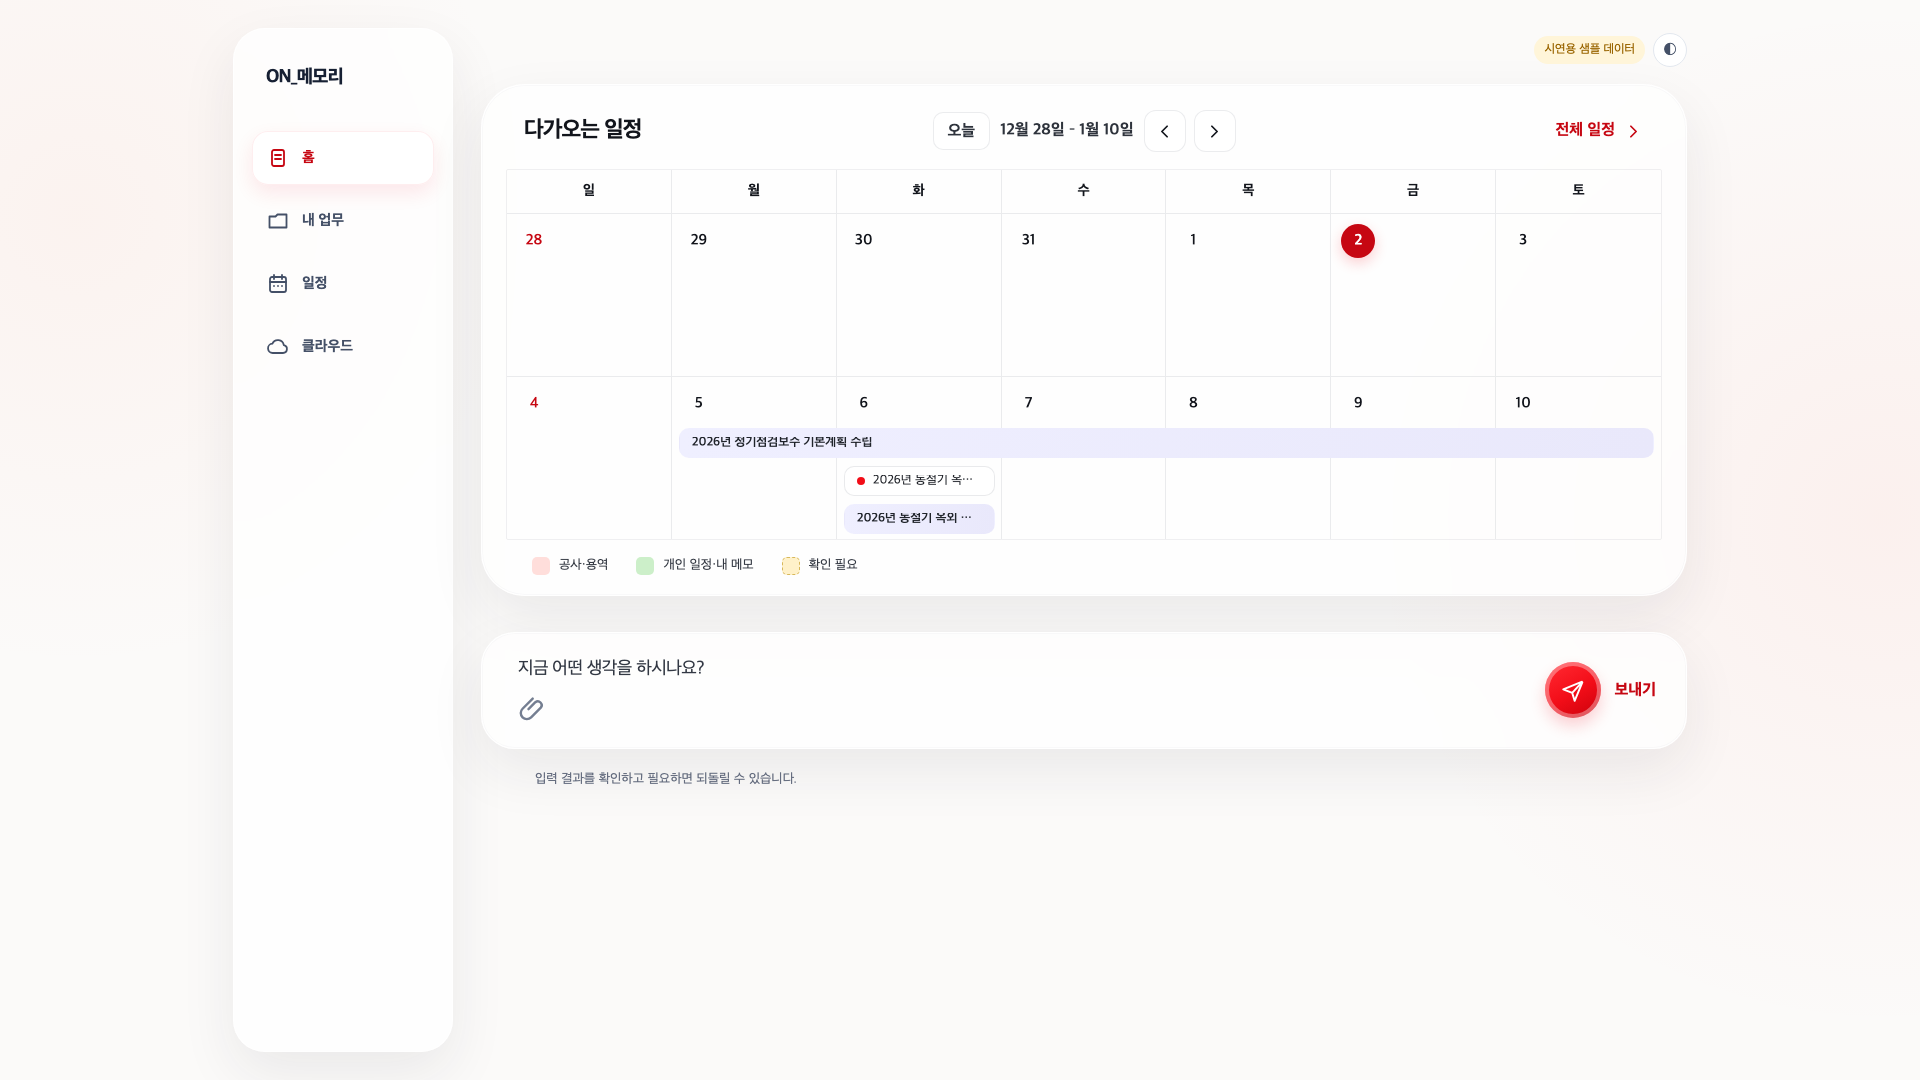
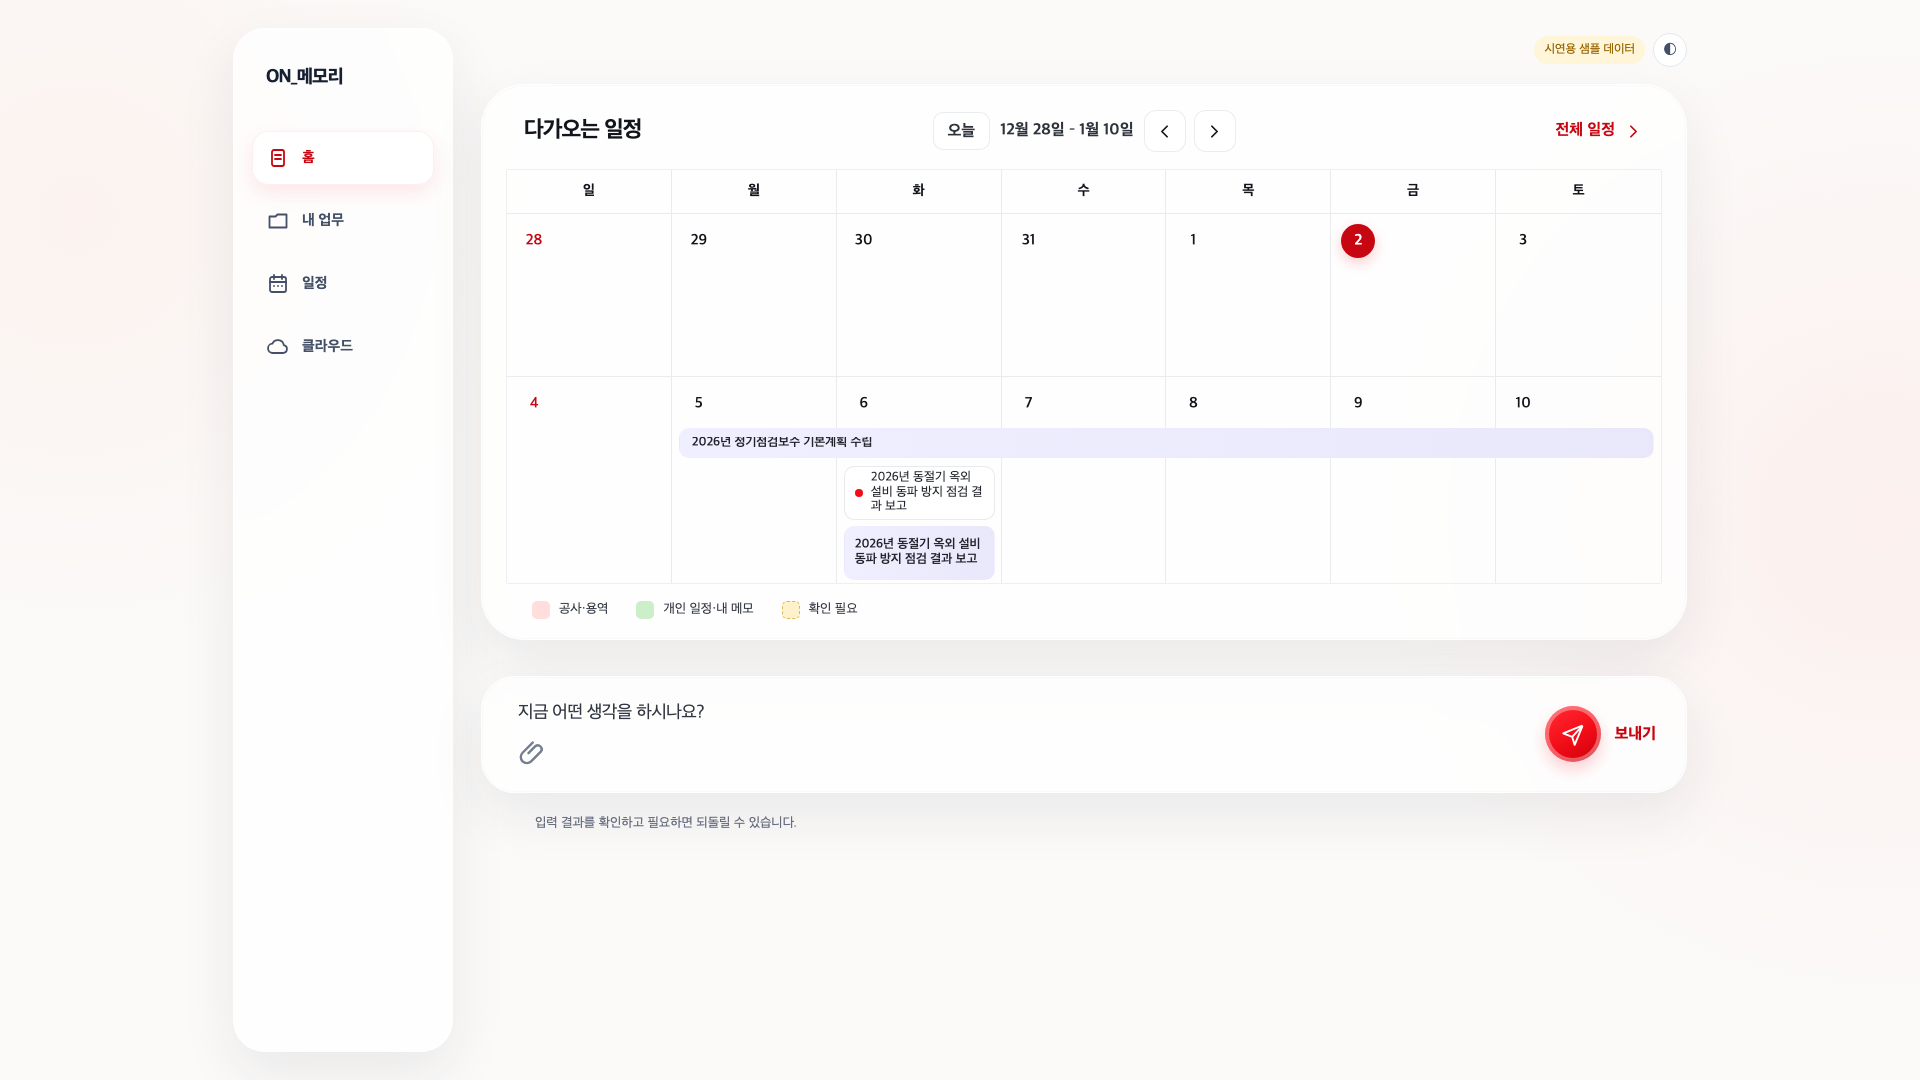
fix: 홈 일정 칩 내용을 온전히 표시

diff --git a/product-ui/tests/verify-home-browser.js b/product-ui/tests/verify-home-browser.js
@@ -40,6 +40,13 @@ const seededState = {
     endISO: "2026-01-03",
     ownerId: "person-kim-hannan",
     status: "active"
+  }, {
+    id: "personal-long-label",
+    title: "2026년 정기점검보수 개인 검토 일정",
+    startISO: "2026-01-06",
+    endISO: "2026-01-06",
+    ownerId: "person-kim-hannan",
+    status: "active"
   }],
   works: [{
     id: "calendar-work",
@@ -68,6 +75,13 @@ const seededState = {
       label: "다음 주 업체 서류 확인",
       startISO: "2026-01-04",
       endISO: "2026-01-10",
+      confirmed: false
+    }, {
+      id: "single-day-candidate-long-label",
+      kind: "date",
+      label: "2026년 정기점검보수 확인 필요 일정",
+      startISO: "2026-01-06",
+      endISO: "2026-01-06",
       confirmed: false
     }],
     sources: [],
@@ -165,7 +179,7 @@ async function run() {
   try {
     server = await startServer();
     browser = await launchBrowser();
-    const page = await browser.newPage({ viewport: { width: 1280, height: 900 } });
+    const page = await browser.newPage({ viewport: { width: 1920, height: 1080 } });
     page.on("pageerror", function (error) { errors.push(`pageerror: ${error.message}`); });
     page.on("console", function (message) {
       if (message.type() === "error") errors.push(`console: ${message.text()}`);
@@ -266,11 +280,29 @@ async function run() {
       `desktop section gap is not 36px: ${desktopHierarchy.sectionGap}`);
     assert(desktopHierarchy.composeHeight >= 106 && desktopHierarchy.composeHeight <= 120,
       `desktop capture card is not visually secondary: ${desktopHierarchy.composeHeight}`);
-    assert.equal(await page.locator('[data-calendar-kind="personal"] .home-event-checkbox').count(), 1,
-      "personal schedule lacks its to-do indicator");
+    assert.equal(await page.locator('[data-calendar-kind="personal"] .home-event-checkbox').count(), 2,
+      "personal schedules lack their to-do indicators");
     assert.equal(await page.locator("[data-calendar-date]").count(), 14, "home calendar must render exactly 14 dates");
     assert.equal(await page.locator("[data-calendar-date]").first().getAttribute("data-calendar-date"), "2025-12-28", "calendar does not start from summary.simDate week");
     assert.equal(await page.locator('[data-calendar-date="2026-01-02"]').getAttribute("aria-current"), "date", "simulation date is not exposed as current date");
+    for (const eventId of ["personal-long-label", "single-day-candidate-long-label"]) {
+      const chip = page.locator(`[data-event-id="${eventId}"]`);
+      const layout = await chip.evaluate(function (element) {
+        const label = element.querySelector(".home-event-text");
+        const status = element.querySelector(".home-event-status");
+        const chipRect = element.getBoundingClientRect();
+        const statusRect = status && status.getBoundingClientRect();
+        return {
+          labelClipped: label.scrollWidth > label.clientWidth || label.scrollHeight > label.clientHeight,
+          statusClipped: Boolean(status && (status.scrollWidth > status.clientWidth || status.scrollHeight > status.clientHeight)),
+          statusContained: Boolean(!status || (statusRect.left >= chipRect.left && statusRect.right <= chipRect.right
+            && statusRect.top >= chipRect.top && statusRect.bottom <= chipRect.bottom))
+        };
+      });
+      assert.equal(layout.labelClipped, false, `${eventId} label is clipped in the 1920px home calendar`);
+      assert.equal(layout.statusClipped, false, `${eventId} status is clipped in the 1920px home calendar`);
+      assert.equal(layout.statusContained, true, `${eventId} status escapes its 1920px home calendar chip`);
+    }
 
     assert((await page.locator('[data-calendar-kind="work"]').count()) >= 1, "multi-day work bar missing");
     assert.equal(await page.getByText("내 참여 업무", { exact: true }).count(), 1, "participant work is missing from home");
@@ -288,7 +320,7 @@ async function run() {
     await page.locator('[data-calendar-kind="personal"][data-event-start="2026-01-08"]').waitFor();
     assert.equal(await page.locator('[data-calendar-kind="personal"][data-event-start="2026-01-08"]').count(), 1, "confirmed personal schedule did not appear in the calendar");
     assert.equal(await page.locator('[data-calendar-kind="memo"]').count(), 1, "confirmed memo missing");
-    const candidate = page.locator('[data-calendar-kind="candidate"]');
+    const candidate = page.locator('[data-calendar-kind="candidate"][data-event-id="schedule-candidate"]');
     assert.equal(await candidate.count(), 1, "schedule candidate chip missing");
     assert((await candidate.innerText()).includes("후보"), "candidate does not expose the visible Korean candidate label");
     assert((await candidate.innerText()).includes("미확인"), "candidate does not expose visible status text");
@@ -296,7 +328,7 @@ async function run() {
     assert(candidateAriaLabel.includes("일정 후보 미확인"), "candidate status is missing from its accessible name");
     assert(candidateAriaLabel.includes("2026.01.04") && candidateAriaLabel.includes("2026.01.10"), "candidate range accessible name omits one of its dates");
     await candidate.click();
-    await page.waitForFunction(function () { return !document.querySelector('[data-calendar-kind="candidate"]'); });
+    await page.waitForFunction(function () { return !document.querySelector('[data-calendar-kind="candidate"][data-event-id="schedule-candidate"]'); });
     const confirmationFeedback = await page.locator("#homeFeedback").innerText();
     assert(confirmationFeedback.includes("냉각수 펌프 정비공사 일정을 확정했습니다."), "schedule confirmation feedback is not cohesive Korean copy");
     assert.equal(confirmationFeedback.includes("schedule confirmed"), false, "English schedule confirmation feedback remains");

diff --git a/product-ui/app.js b/product-ui/app.js
@@ -670,7 +670,7 @@ function renderHomeEvent(event2, column, span, row) {
     : event2.kind === "memo"
       ? '<span class="home-event-symbol" aria-hidden="true">▤</span>'
       : '<span class="home-event-dot" aria-hidden="true"></span>';
-  return `<button type="button" class="home-calendar-event home-event--${esc(event2.kind)}${homeEventClass(event2)}"
+  return `<button type="button" class="home-calendar-event home-event--${esc(event2.kind)}${homeEventClass(event2)}${span === 1 ? " is-single-day" : ""}"
     style="grid-column:${column} / span ${span};grid-row:${row}"
     data-calendar-kind="${esc(event2.kind)}" data-work-id="${esc(event2.workId)}" data-event-id="${esc(event2.id)}"
     data-event-start="${esc(event2.startISO)}" data-event-end="${esc(event2.endISO)}"
@@ -700,7 +700,14 @@ function renderHomeCalendarWeek(days, events, sim) {
     const span = days.indexOf(visibleEnd) - days.indexOf(visibleStart) + 1;
     return renderHomeEvent(event2, column, span, index + 2);
   }).join("");
-  return `<div class="home-calendar-week" style="grid-template-rows:48px repeat(${lanes},38px)">${dayCells}${eventButtons}</div>`;
+  const laneRows = Array.from({ length: lanes }, (_, index) => {
+    const event2 = weekEvents[index];
+    if (!event2) return "38px";
+    const visibleStart = event2.startISO < first ? first : event2.startISO;
+    const visibleEnd = event2.endISO > last ? last : event2.endISO;
+    return visibleStart === visibleEnd ? "60px" : "38px";
+  }).join(" ");
+  return `<div class="home-calendar-week" style="grid-template-rows:48px ${laneRows}">${dayCells}${eventButtons}</div>`;
 }
 
 /* ---------- 만능 입력 처리 ---------- */

diff --git a/product-ui/style.css b/product-ui/style.css
@@ -220,6 +220,13 @@ main.home-main{width:100%;max-width:none;margin:0;padding:0;outline:none;flex:1 
   text-align:left;font-size:.79rem;line-height:1;color:#20242b;background:rgba(255,255,255,.88);border:1px solid rgba(44,53,69,.10);
   overflow:hidden;transition:transform 140ms cubic-bezier(.23,1,.32,1),border-color 160ms ease,box-shadow 160ms ease,background-color 160ms ease}
 .home-event-text{overflow:hidden;text-overflow:ellipsis;white-space:nowrap}
+.home-calendar-event.is-single-day{height:54px;padding:6px 10px;align-items:center;line-height:1.15}
+.home-calendar-event.is-single-day .home-event-text{overflow:visible;text-overflow:clip;white-space:normal}
+.home-calendar-event.is-single-day.home-event--candidate{display:grid;grid-template-columns:auto minmax(0,1fr);grid-template-rows:auto auto;
+  align-content:center;column-gap:7px;row-gap:2px}
+.home-calendar-event.is-single-day.home-event--candidate .home-event-dot{grid-column:1;grid-row:1 / span 2;align-self:start;margin-top:3px}
+.home-calendar-event.is-single-day.home-event--candidate .home-event-text{grid-column:2;grid-row:1}
+.home-calendar-event.is-single-day.home-event--candidate .home-event-status{grid-column:2;grid-row:2;margin-left:0}
 .home-event--work{border-color:transparent;background:var(--home-purple-soft);font-weight:600}
 .home-event--work.is-construction{background:linear-gradient(90deg,#ffe8e5,#ffdcd9);color:var(--home-red-deep)}
 .home-event--work.is-service{background:linear-gradient(90deg,#efefff,#e9e8fb)}